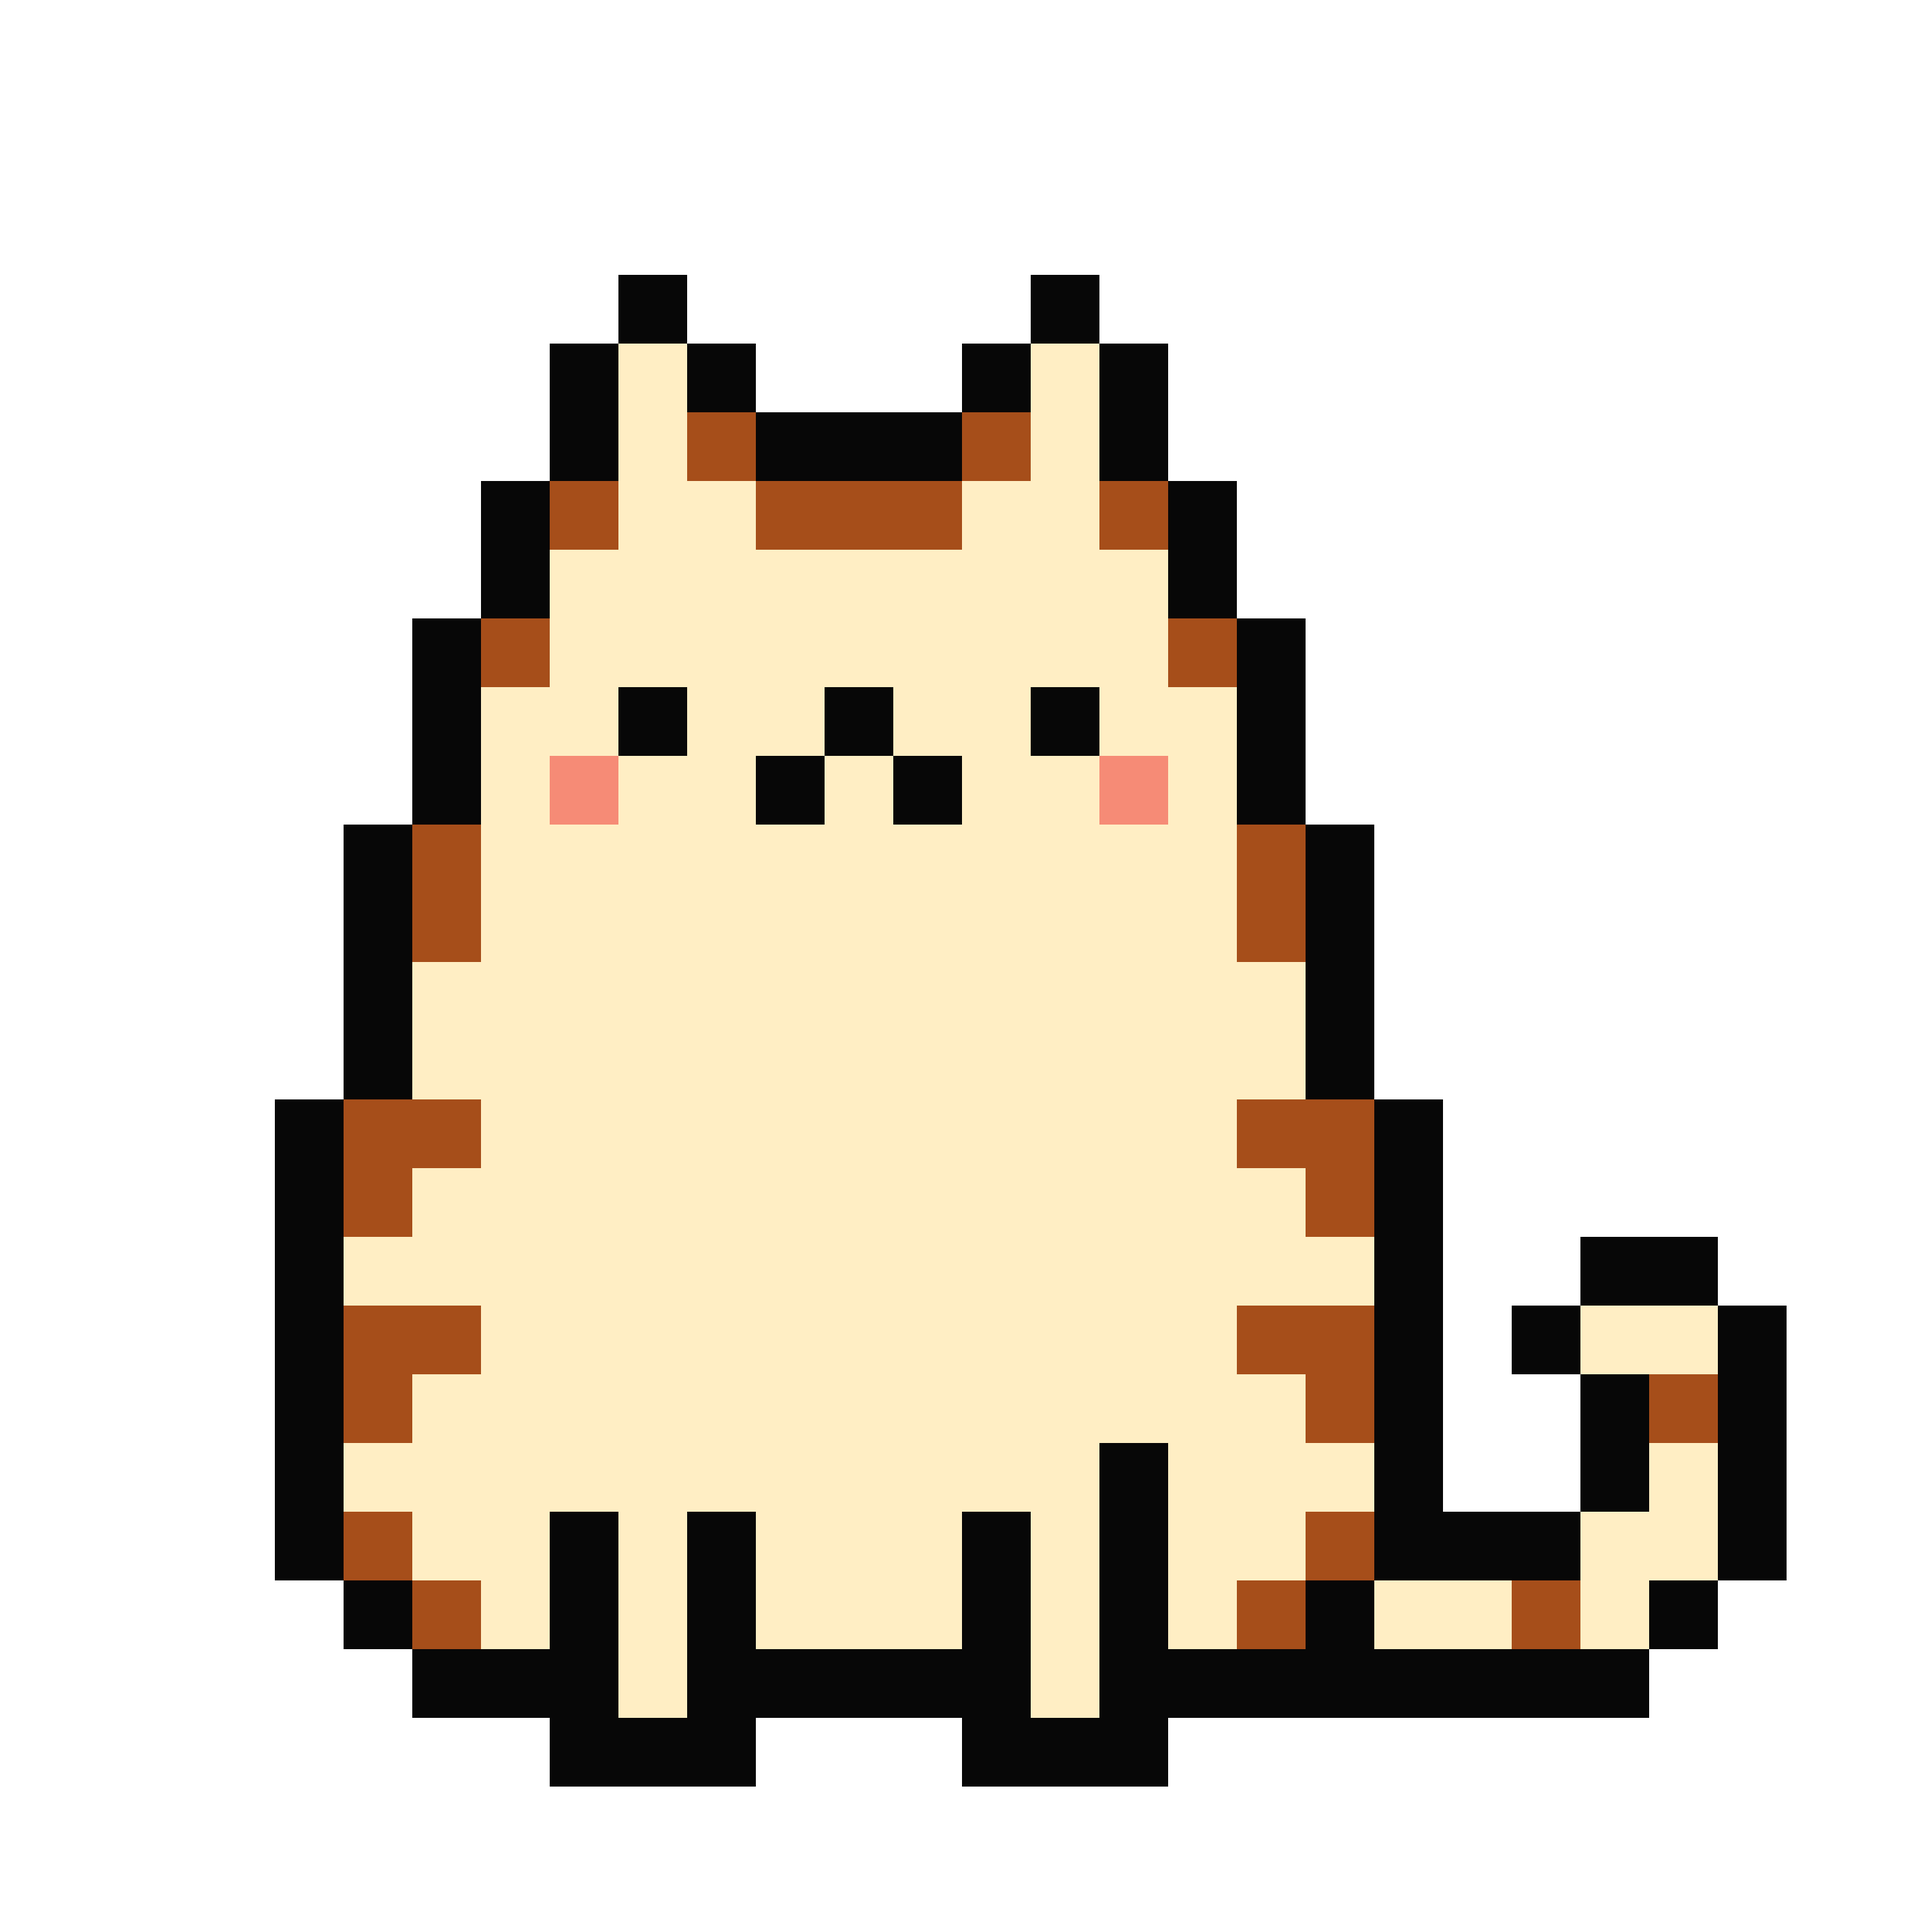
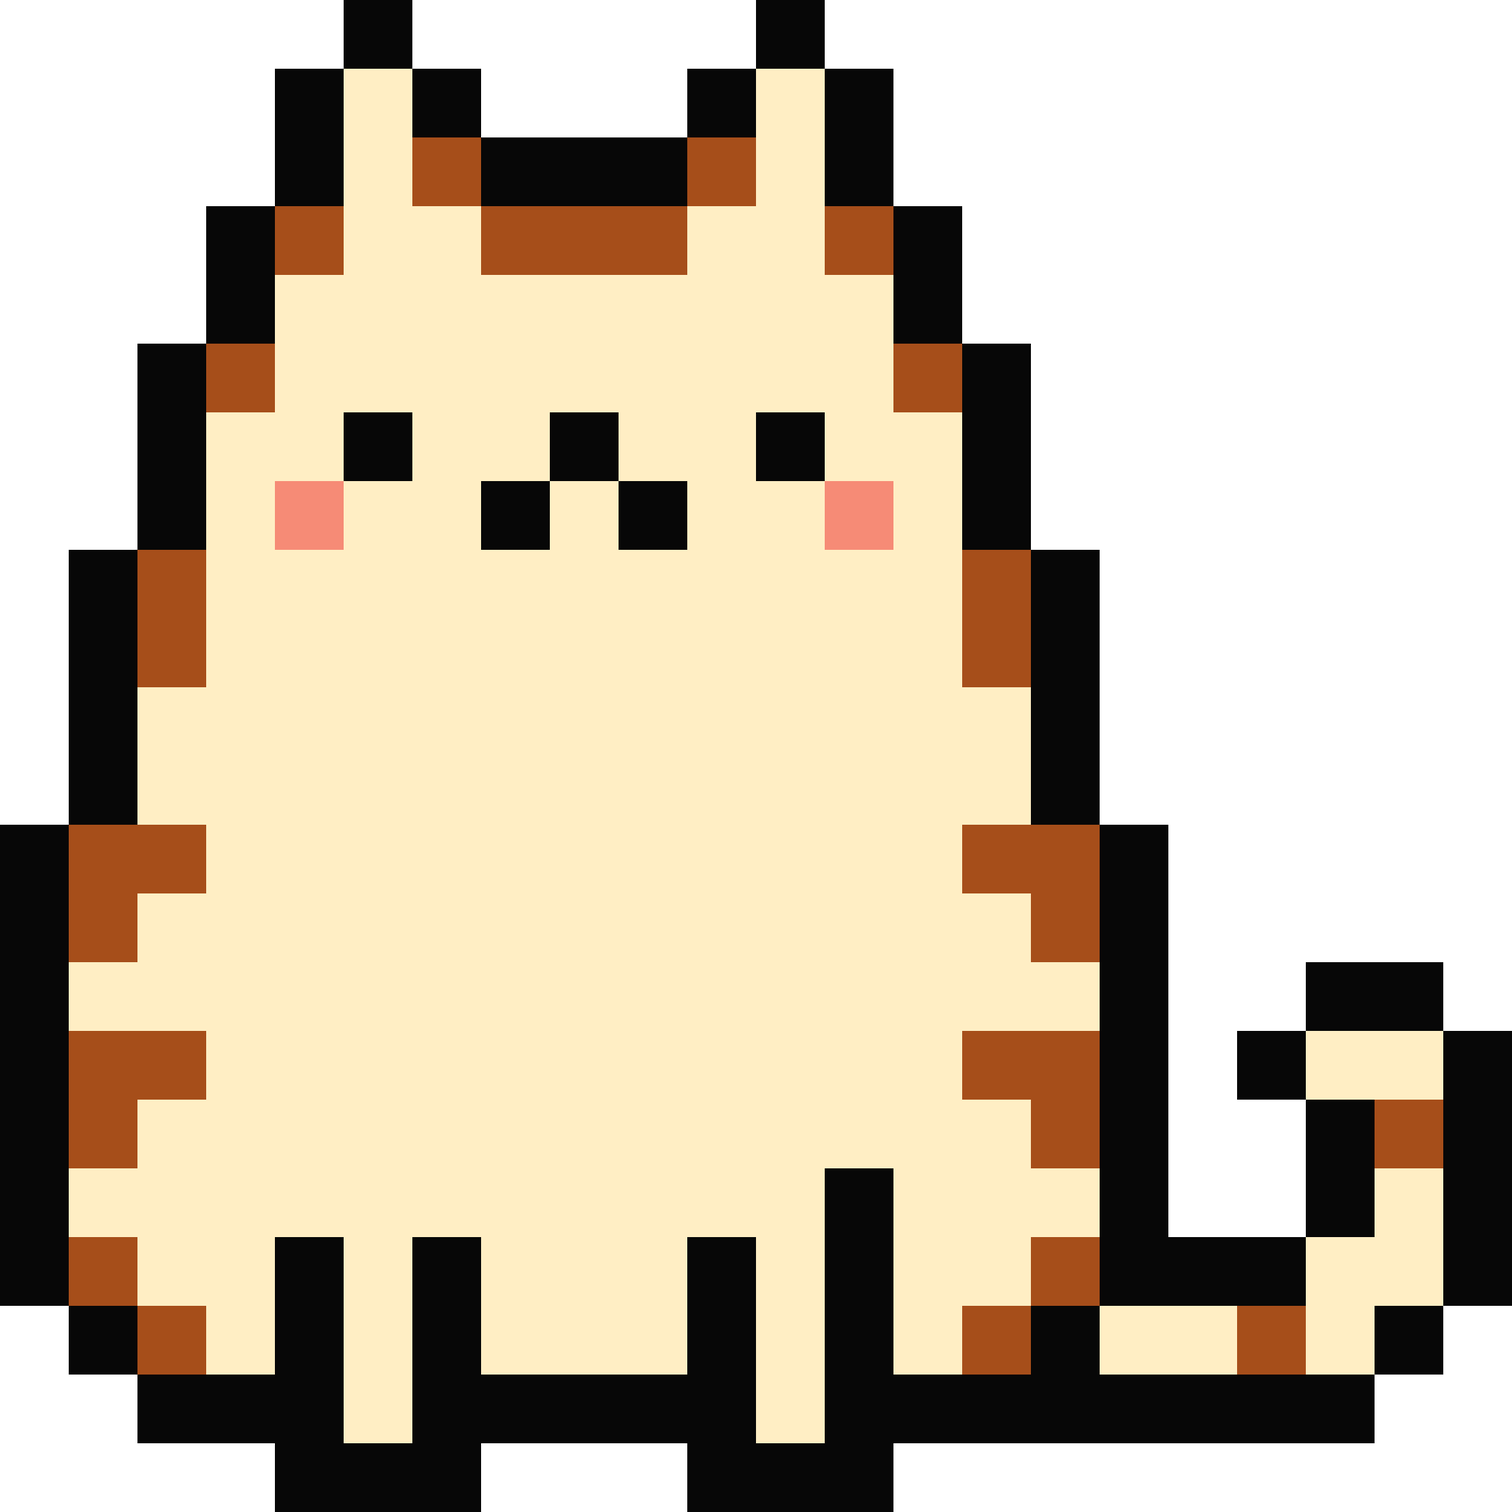
add kitten, add onload game rendering

diff --git a/src/main.ts b/src/main.ts
@@ -1,23 +1,33 @@
 import { InitCanvas } from './modules/canvas';
-import { Backgorund } from './modules/background';
+import { Background } from './modules/background';
+import { Kitten } from './modules/kitten';
 import './styles/style.css'
 
-const app = document.querySelector<HTMLDivElement>('#app');
-if (!app) {
-  throw new Error("Element with ID 'app' not found.");
-}
 
-const canvas = new InitCanvas(1000, 740, 'canvas');
-const canvasElement = canvas.getCanvas();
-const canvasCtx = canvas.getCanvasContext();
-const background = new Backgorund(1000, 740);
+window.addEventListener('load', () => {
+  const app = document.querySelector<HTMLDivElement>('#app');
+  if (!app) {
+    throw new Error("Element with ID 'app' not found.");
+  }
 
-const animateGame = () => {
-  background.draw(canvasCtx);
-  requestAnimationFrame(animateGame);
-}
-animateGame();
+  const CANVAS_BASE_WIDTH: number = 1000;
+  const CANVAS_BASE_HEIGHT: number = 740;
+
+  const canvas = new InitCanvas(CANVAS_BASE_WIDTH, CANVAS_BASE_HEIGHT, 'canvas');
+  const canvasElement = canvas.getCanvas();
+  const canvasCtx = canvas.getCanvasContext();
+  const background = new Background(1000, 740);
+  const kitten = new Kitten(70, 70, CANVAS_BASE_WIDTH, CANVAS_BASE_HEIGHT);
+
+  const animateGame = () => {
+    background.drawBackground(canvasCtx);
+    kitten.drawKitten(canvasCtx)
+    requestAnimationFrame(animateGame);
+  }
+  animateGame();
 
 
 
-app?.appendChild(canvasElement);
+  app?.appendChild(canvasElement);
+})
+

diff --git a/src/modules/kitten.ts b/src/modules/kitten.ts
@@ -1,0 +1,33 @@
+export class Kitten {
+  private kittenWidth: number;
+  private kittenHeight: number;
+  private canvasWidth: number;
+  private canvasHeight: number;
+  private kittenImage: HTMLImageElement;
+  private xPosition: number;
+  private yPosition: number;
+
+  constructor(kittenWidth: number, kittenHeight: number, canvasWidth: number, canvasHeight: number) {
+    this.kittenWidth = kittenWidth;
+    this.kittenHeight = kittenHeight;
+    this.canvasWidth = canvasWidth;
+    this.canvasHeight = canvasHeight;
+    this.xPosition = Math.floor(this.canvasWidth / 2 - this.kittenWidth / 2);
+    this.yPosition = Math.floor(this.canvasHeight / 2 - this.kittenHeight / 2);
+    this.kittenImage = document.getElementById('kitten') as HTMLImageElement;
+
+  }
+
+  drawKitten(context: CanvasRenderingContext2D): void {
+    context.drawImage(this.kittenImage, this.xPosition, this.yPosition, this.kittenWidth, this.kittenHeight);
+  }
+
+  getDead(): void {
+
+  }
+
+  sayThanks(): string {
+    return ("Thank you!")
+  }
+
+}

diff --git a/src/modules/background.ts b/src/modules/background.ts
@@ -1,4 +1,4 @@
-export class Backgorund {
+export class Background {
   private canvasWidth: number;
   private canvasHeight: number;
   private backgroundImg: HTMLImageElement | null;
@@ -17,7 +17,7 @@ export class Backgorund {
     this.height = 100;
   }
 
-  draw(context: CanvasRenderingContext2D) {
+  drawBackground(context: CanvasRenderingContext2D): void {
     const imgWidth = this.width;
     const imgHeight = this.height;
 
@@ -31,9 +31,4 @@ export class Backgorund {
 
   }
 
-  // draw(context: CanvasRenderingContext2D) {
-  //   if (this.backgroundImg) {
-  //     context.drawImage(this.backgroundImg, 0, 0, this.width, this.height);
-  //   }
-  // }
 }

diff --git a/src/modules/canvas.ts b/src/modules/canvas.ts
@@ -14,7 +14,6 @@ export class InitCanvas {
     }
 
     this.context = this.canvas.getContext('2d');
-
   }
 
   getCanvas() {
